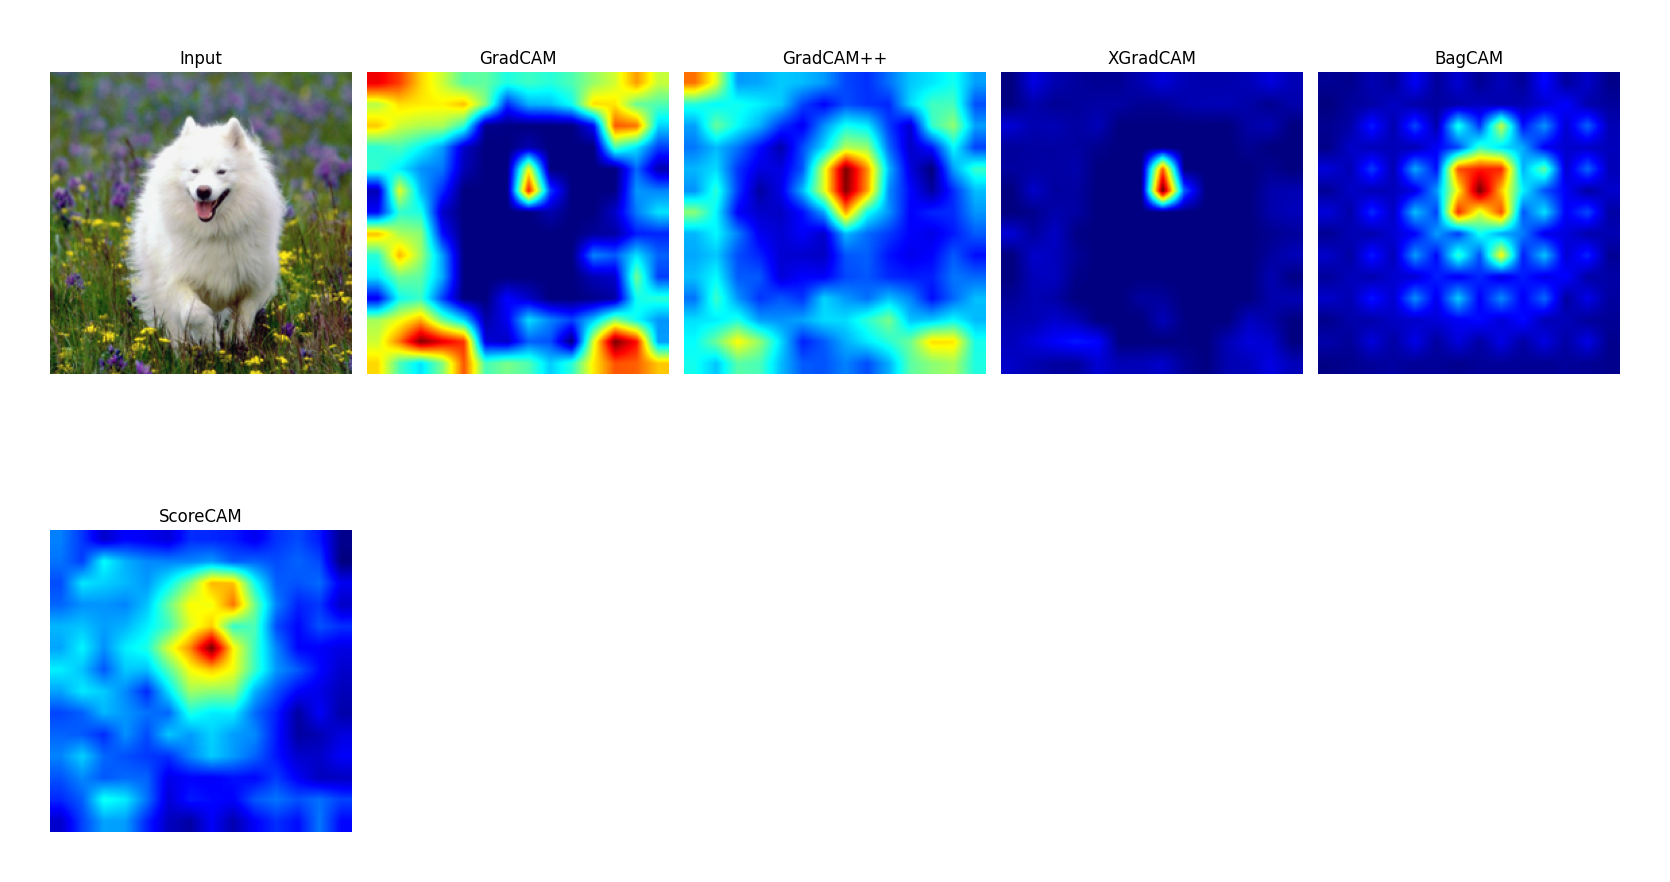
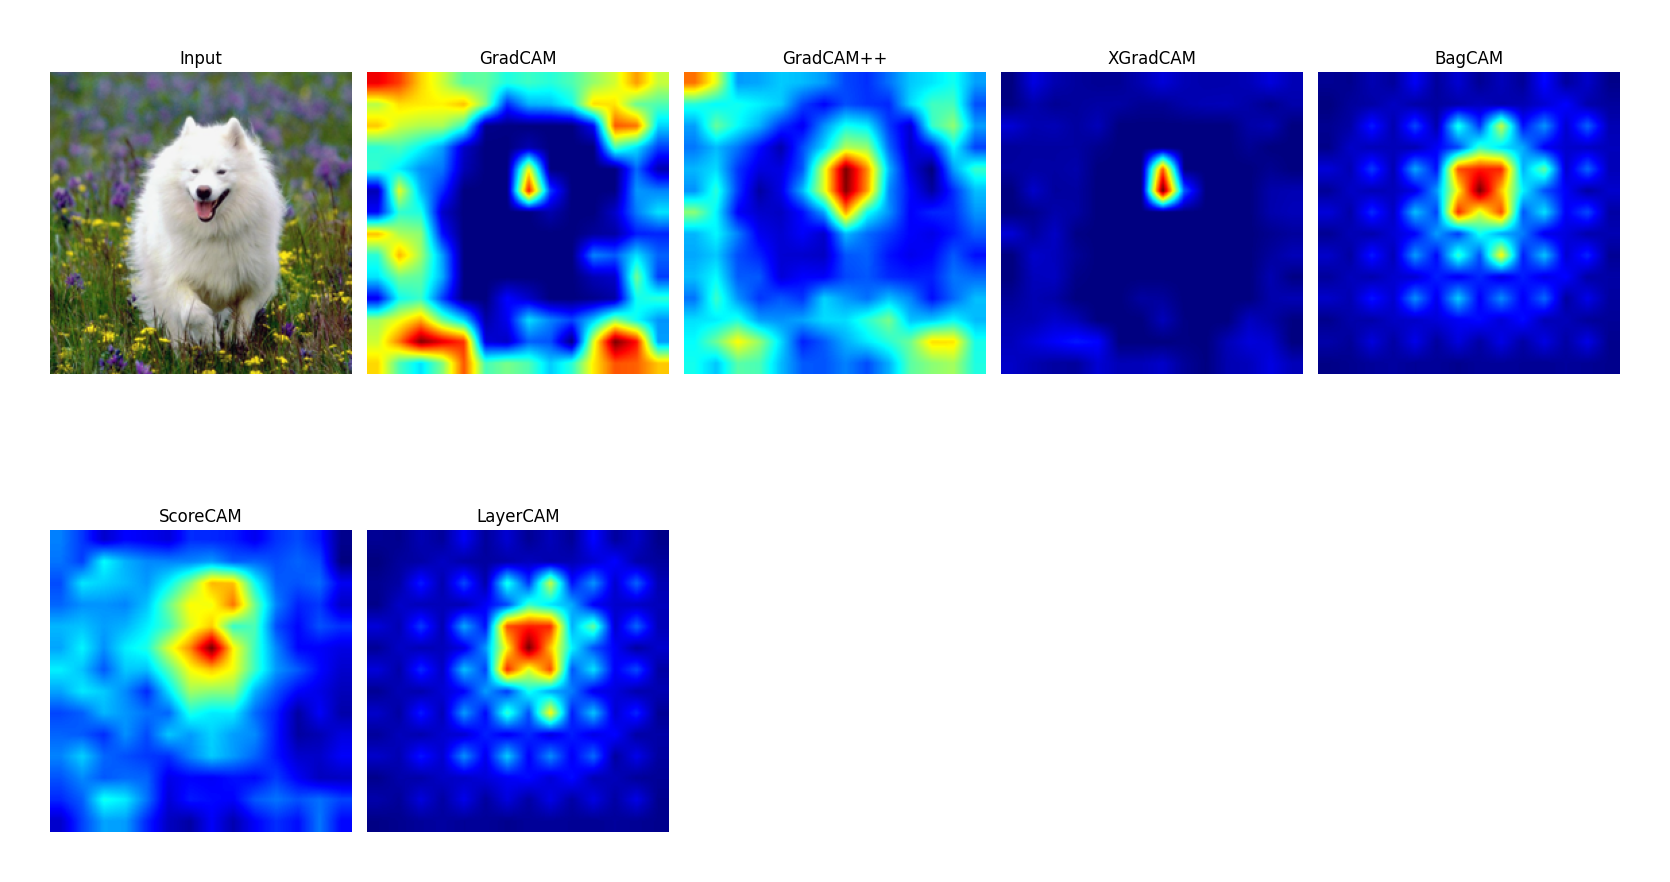
add layercam

Changed region(s): [[0.218, 0.5816, 0.4048, 0.949]]

diff --git a/cam_visualization_examples.py b/cam_visualization_examples.py
@@ -6,7 +6,7 @@ from timm.data import resolve_model_data_config
 from timm.data.transforms_factory import create_transform
 import requests
 
-from attribution import GradCAM, GradCAMPlusPlus, XGradCAM, BagCAM
+from attribution import GradCAM, GradCAMPlusPlus, XGradCAM, BagCAM, ScoreCAM, LayerCAM
 from attribution.utils import normalize_saliency, visualize_single_saliency
 
 
@@ -85,10 +85,15 @@ if __name__ == '__main__':
     bag_cam = normalize_saliency(bagcam_net.get_mask(img, target_index, target_layer))
     print('BagCAM:', bag_cam.shape)
     
-    from attribution import ScoreCAM
+    # ScoreCAM
     scorecam = ScoreCAM(model)
     score_cam = normalize_saliency(scorecam.get_mask(img, target_index, target_layer))
     print('ScoreCAM', score_cam.shape)
+    
+    # LayerCAM
+    layercam = LayerCAM(model)
+    layer_cam = normalize_saliency(layercam.get_mask(img, target_index, target_layer))
+    print('LayerCAM', layer_cam.shape)
     
     # Visualize the saliency maps
     plt.figure(figsize=(16, 10))
@@ -111,6 +116,9 @@ if __name__ == '__main__':
     plt.subplot(2,5,6)
     plt.title('ScoreCAM')
     visualize_single_saliency(score_cam[0].unsqueeze(0))
+    plt.subplot(2,5,7)
+    plt.title('LayerCAM')
+    visualize_single_saliency(layer_cam[0].unsqueeze(0))
     plt.tight_layout()
     plt.savefig('examples/cam_visualization.png', bbox_inches='tight', pad_inches=0.5)
     

diff --git a/attribution/layer_cam.py b/attribution/layer_cam.py
@@ -1,0 +1,33 @@
+from .base import CAMWrapper
+
+import torch
+from torch.nn import functional as F
+
+
+class LayerCAM(CAMWrapper):
+    def get_mask(self, img: torch.Tensor,
+                 target_class: torch.Tensor,
+                 target_layer: str):
+        B, C, H, W = img.size()
+        self.model.eval()
+        self.model.zero_grad()
+        
+        # class-specific backpropagation
+        logits = self.model(img)
+        target = self._encode_one_hot(target_class, logits)
+        self.model.zero_grad()
+        logits.backward(gradient=target, retain_graph=True)
+        
+        # get feature maps and gradients
+        feature_maps = self._find(self.feature_maps, target_layer)
+        gradients = self._find(self.gradients, target_layer)
+        
+        # generate CAM
+        with torch.no_grad():
+            spatial_weighted_feature_maps = torch.maximum(gradients, torch.tensor(0, device=self.device)) * feature_maps
+            cam = spatial_weighted_feature_maps.sum(dim=1, keepdim=True)
+            cam = F.relu(cam)
+            cam = F.interpolate(cam, (H, W), mode='bilinear', align_corners=False)
+            cam = self.normalize_cam(cam)
+            
+        return cam

diff --git a/attribution/__init__.py b/attribution/__init__.py
@@ -8,3 +8,4 @@ from .grad_cam_plusplus import GradCAMPlusPlus
 from .xgrad_cam import XGradCAM
 from .bag_cam import BagCAM
 from .score_cam import ScoreCAM
+from .layer_cam import LayerCAM
